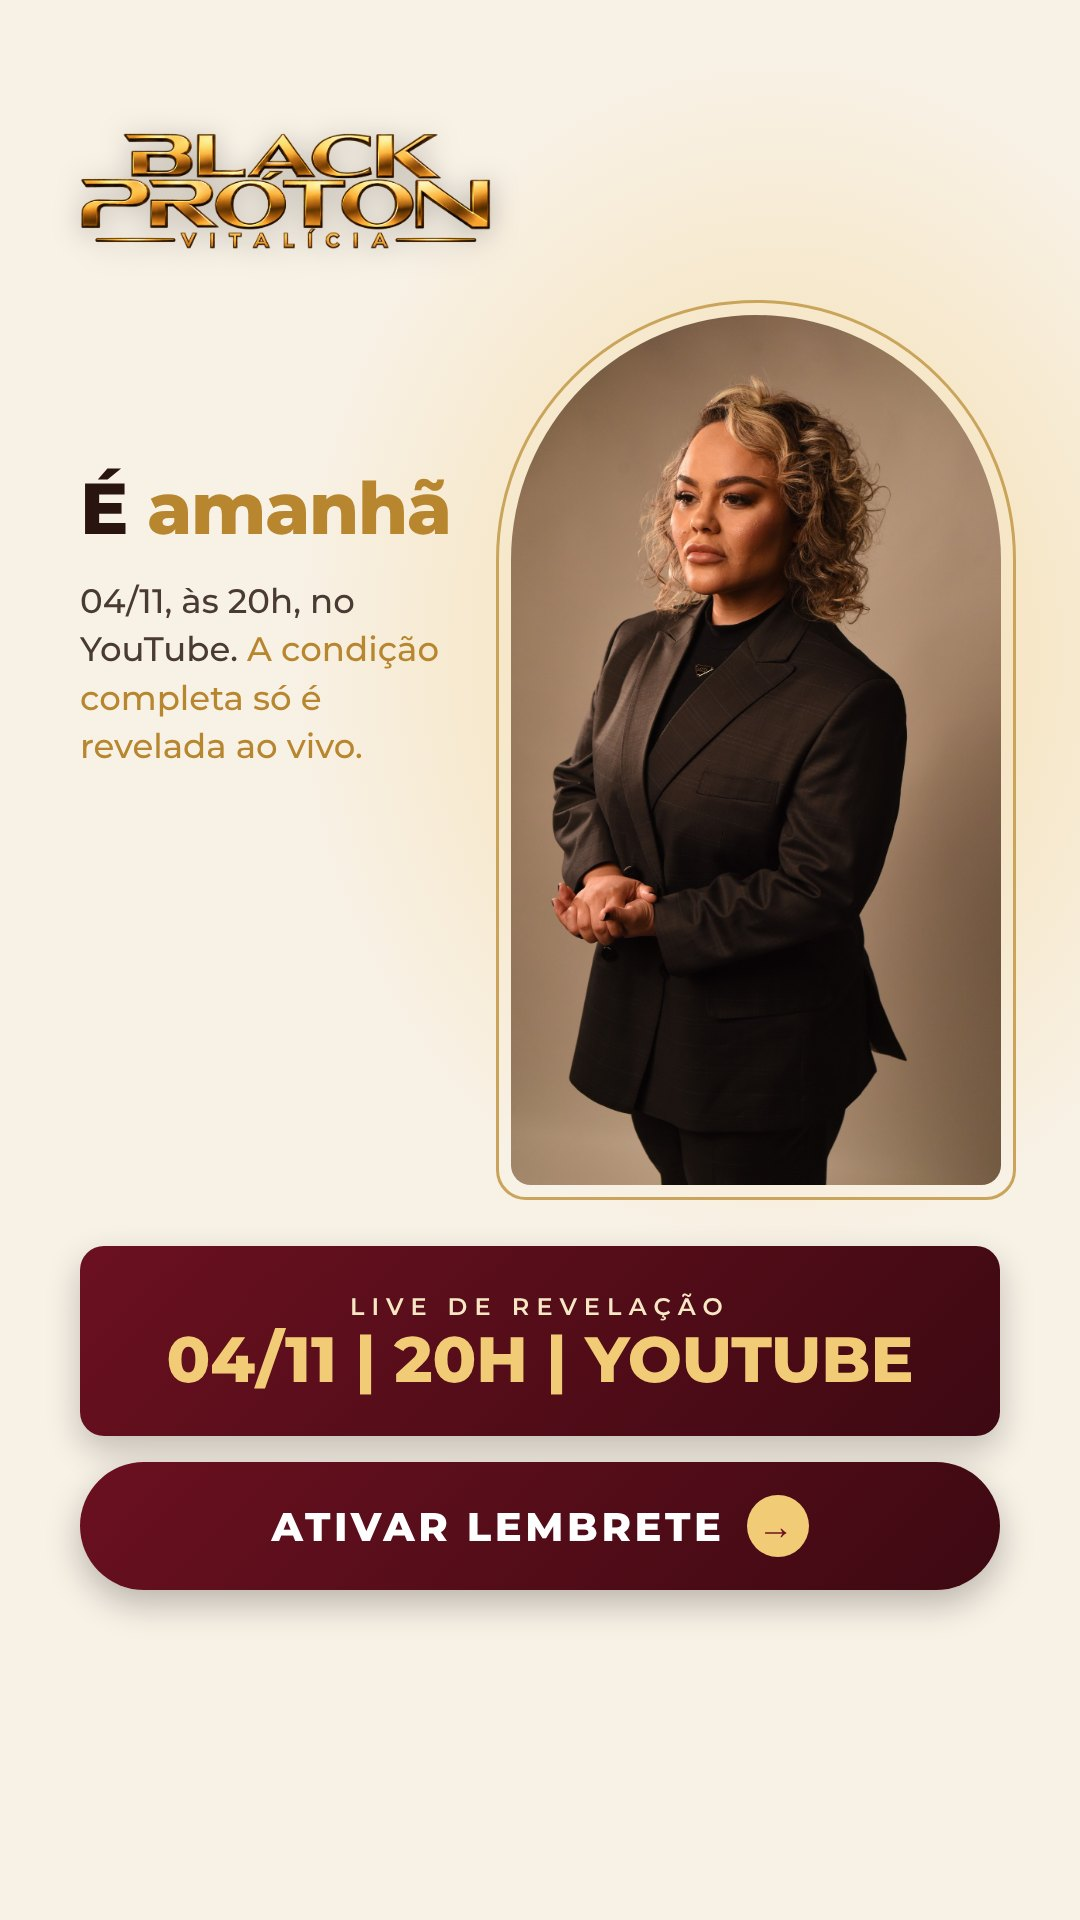
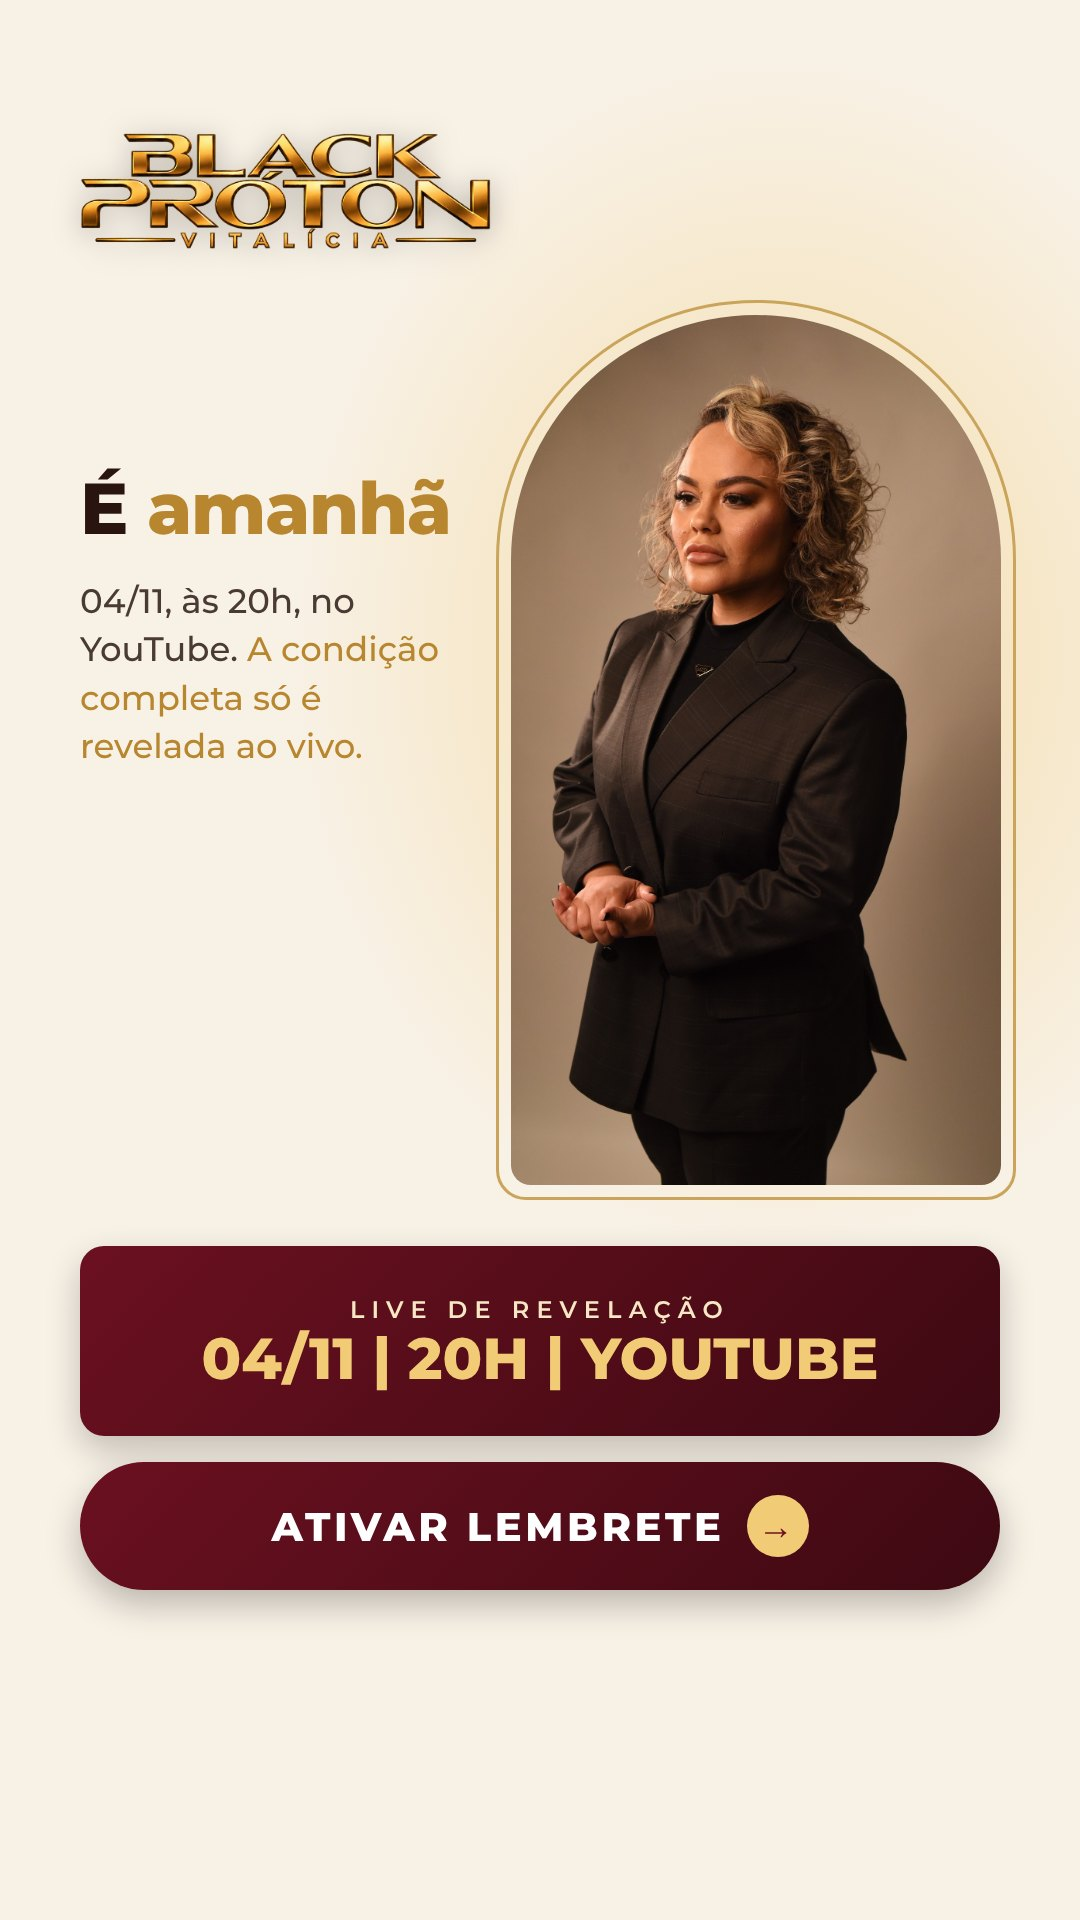
Lote final: 288 criativos Black Próton Vitalícia regerados com os ajustes de QA
Claude-Session: https://claude.ai/code/session_01XttdTbpYBzsaA5vhN67mRE

Changed region(s): [[0.4889, 0.6562, 0.8556, 0.7188], [0.1528, 0.6562, 0.4889, 0.75]]

diff --git a/black-vitalicia/README.md b/black-vitalicia/README.md
@@ -1,0 +1,9 @@
+# Black Próton Vitalícia · criativos
+
+288 artes (72 criativos × feed 1080x1350 / stories 1080x1920 × escuro / claro) em `criativos/<ETAPA>/`, no padrão de nome das artes antigas.
+Fotos de estúdio inteiras (sem recorte de cabelo) em `fotos/`, capas dos cursos em `capas-cursos/`, logo em `assets/`.
+
+- `node src/gerar.js [ID,ID]` regenera (precisa `npm i`); copy em `src/copy.json`; correções por ID em `src/ajustes/*.json`.
+- Textos vêm das artes antigas/docs de copy. Data da live usada: 04/11 às 20h.
+- Pendências: placeholders `{VALOR DO LOTE}`, `{LOTE ATUAL}`, `{DATA/HORA DA VIRADA}` nas artes de vendas; listas (`itens`) do copy.json e elementos decorativos do original (infinito, faixa SEG–DOM, balão riscado) não são desenhados; C05 ganhou o numeral "04/11" como na arte original.
+- Fotos: só o ensaio IMG_* coube no limite de 10 MB do conector (1 feliz, 1 serena, o resto sério). Os DSC_* (12–15 MB) não foram usados.
